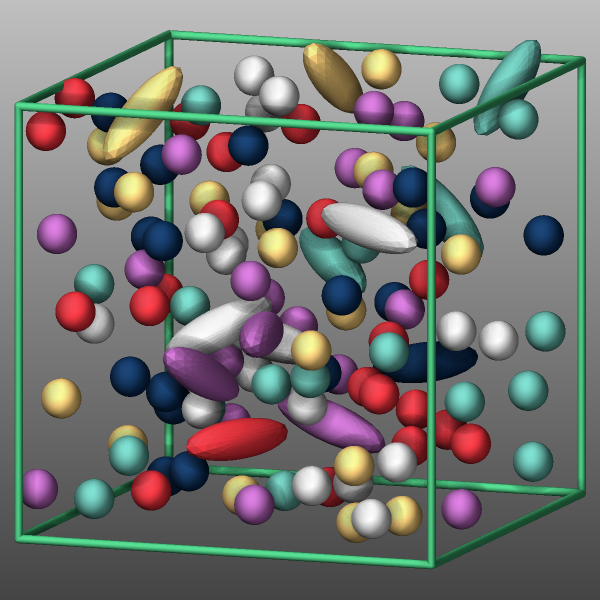
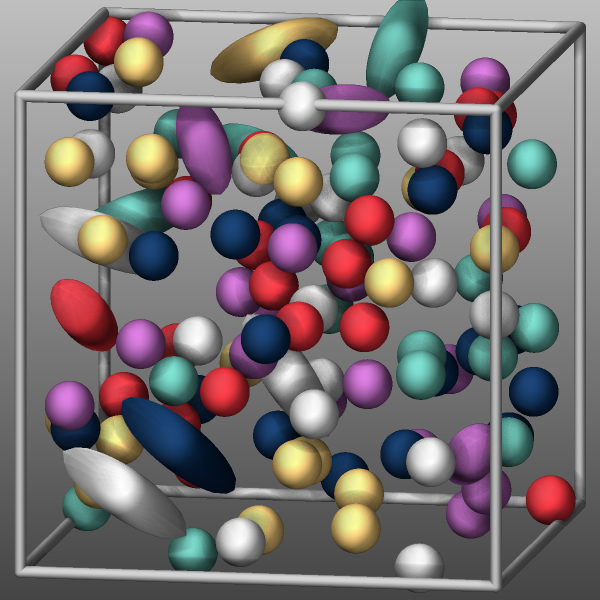
update ellipsoid drawing docs for use of rounded triangles, simplify settings

diff --git a/src/GRAPHICS/dump_image.cpp b/src/GRAPHICS/dump_image.cpp
@@ -321,12 +321,13 @@ DumpImage::DumpImage(LAMMPS *lmp, int narg, char **arg) :
       else
         error->all(FLERR, iarg+1, "Dump image ellipsoid only supports color by type, atom, or index");
       estyle = utils::inumeric(FLERR,arg[iarg+2],false,lmp);
-      if ((estyle < 0) || (estyle > 3))
-        error->all(FLERR, iarg+2, "Dump image ellipsoid only supports style setting 1, 2, or 3");
+      // unless the wireframe setting is requested, we draw rounded triangles
+      if (estyle !=2 ) estyle = 1;
+
       elevel = utils::inumeric(FLERR,arg[iarg+3],false,lmp);
       if (elevel == 0) elevel = 4; // default setting
-      if (elevel > 6)
-        error->all(FLERR, iarg+3, "Dump image ellipsoid mesh refinement level {} is too large", elevel);
+      if ((elevel < 0) || (elevel > 6))
+        error->all(FLERR, iarg+3, "Dump image ellipsoid invalid mesh refinement level {}", elevel);
       ediamvalue = utils::numeric(FLERR,arg[iarg+4],false,lmp);
       iarg += 5;
 

diff --git a/doc/src/Howto_viz.rst b/doc/src/Howto_viz.rst
@@ -610,7 +610,7 @@ Visualizing ellipsoid particles
 
 Ellipsoidal particles are a generalization of spheres that may have
 three different radii to define the shape.  They can be modeled using
-pair styles :doc:`gayberne <pair_gayberne>` or :doc:`resquared
+pair styles like :doc:`gayberne <pair_gayberne>` or :doc:`resquared
 <pair_resquared>`.  The regular :doc:`dump custom <dump>` command can
 output the center of those bodies, the shape parameters and the
 orientation as quaternions.  If one follows the required conventions and
@@ -618,22 +618,26 @@ follows the documented steps, those trajectory dump files can be
 `imported and visualized in OVITO
 <https://www.ovito.org/manual/advanced_topics/aspherical_particles.html>`_
 
+.. versionadded:: TBD
+
+   Now using curved triangles instead of flat ones; "both" option is removed
+
 As an alternative, the ellipsoid particles can be visualized directly
 with :doc:`dump image <dump_image>` using the *ellipsoid* keyword.  The
-color and transparency settings can be changed by settings those
+color and transparency settings can be changed by setting those
 properties for the corresponding atom types.  It is also possible to
 represent the ellipsoids via generating a triangle mesh and visualizing
-it as either wireframes (*eflag* value 2), planar faces (*eflag* value
-1), or both (*eflag* value 3), same as demonstrated for body particles
-above.  The use of a triangle mesh is currently required since the
+it as either wireframes (*eflag* value 2) or rounded faces (*eflag*
+value 1).  The use of a triangle mesh is currently required since the
 rasterizer built into LAMMPS does not offer a suitable graphics
 primitive for ellipsoids.  The mesh is constructed by iteratively
 refining a triangle mesh representing an icosahedron where each triangle
 is replaced by four triangles in each iteration.  For a sufficiently
-smooth representation a refinement level of 4 to 6 is required, which
-can cause a significant slowdown of the rendering of the image due to
-the large number of triangles that need to be drawn.  This will be
-more pronounced when enabling FSAA or SSAO or both.
+smooth representation a refinement level of 4 to 6 is required (see
+example images below).  A high refinement level can cause a significant
+slowdown of the rendering of the image due to the large number of
+triangles that need to be drawn.  This will be more pronounced when
+enabling FSAA or SSAO or both.
 
 .. |ellipsoid1| image:: img/ellipsoid-level2.png
    :width: 33%

diff --git a/doc/src/dump_image.rst b/doc/src/dump_image.rst
@@ -52,7 +52,7 @@ Syntax
          width = numeric value for triangle edge width (distance units)
        *ellipsoid* = color eflag level width
          color = *type* or *index* or *atom*
-         eflag = 1 for triangles, 2 for wireframe, 3 for both
+         eflag = 1 for triangles, 2 for wireframe
          level = mesh refinement level, value between 1 (low resolution) and 6 (ultra high resolution)
          width = diameter of wireframe edges (distance units) (ignored for triangles)
        *body* = color bflag1 bflag2
@@ -568,11 +568,11 @@ colors than atom types are desired, the *number of atom types* must be
 
 The *ellipsoid* keyword can be used when :doc:`atom_style ellipsoid
 <atom_style>` is used to define particles as ellipsoids, and will draw
-them as a mesh of triangles or edges or both, depending on the setting
-for *eflag*\ .  If edges are drawn, the *width* setting determines the
-diameters of the line segments.  If this keyword is not used, ellipsoid
-particles will be drawn as spheres, the same as if they were regular
-atoms.
+them as a mesh of rounded triangles or edges, depending on the setting
+for *eflag*\ (1 for rounded triangles, 2 for edges).  If edges are
+drawn, the *width* setting determines the diameters of the line
+segments.  If this keyword is not used, ellipsoid particles will be
+drawn as spheres, the same as if they were regular atoms.
 
 .. versionchanged:: TBD
 
@@ -599,6 +599,10 @@ and repeats itself for types > 6.  This list can by changed with the
 colors than atom types are desired, the *number of atom types* must be
 *increased* correspondingly when using either the :doc:`create_box
 <create_box>` or the :doc:`read_data <read_data>` command.
+
+.. versionchanged:: TBD
+
+   changed initial geometry to icosahedron and use rounded triangles
 
 The *level* setting determines the number of triangles in the mesh of
 triangles and thus the resolution of the representation of the